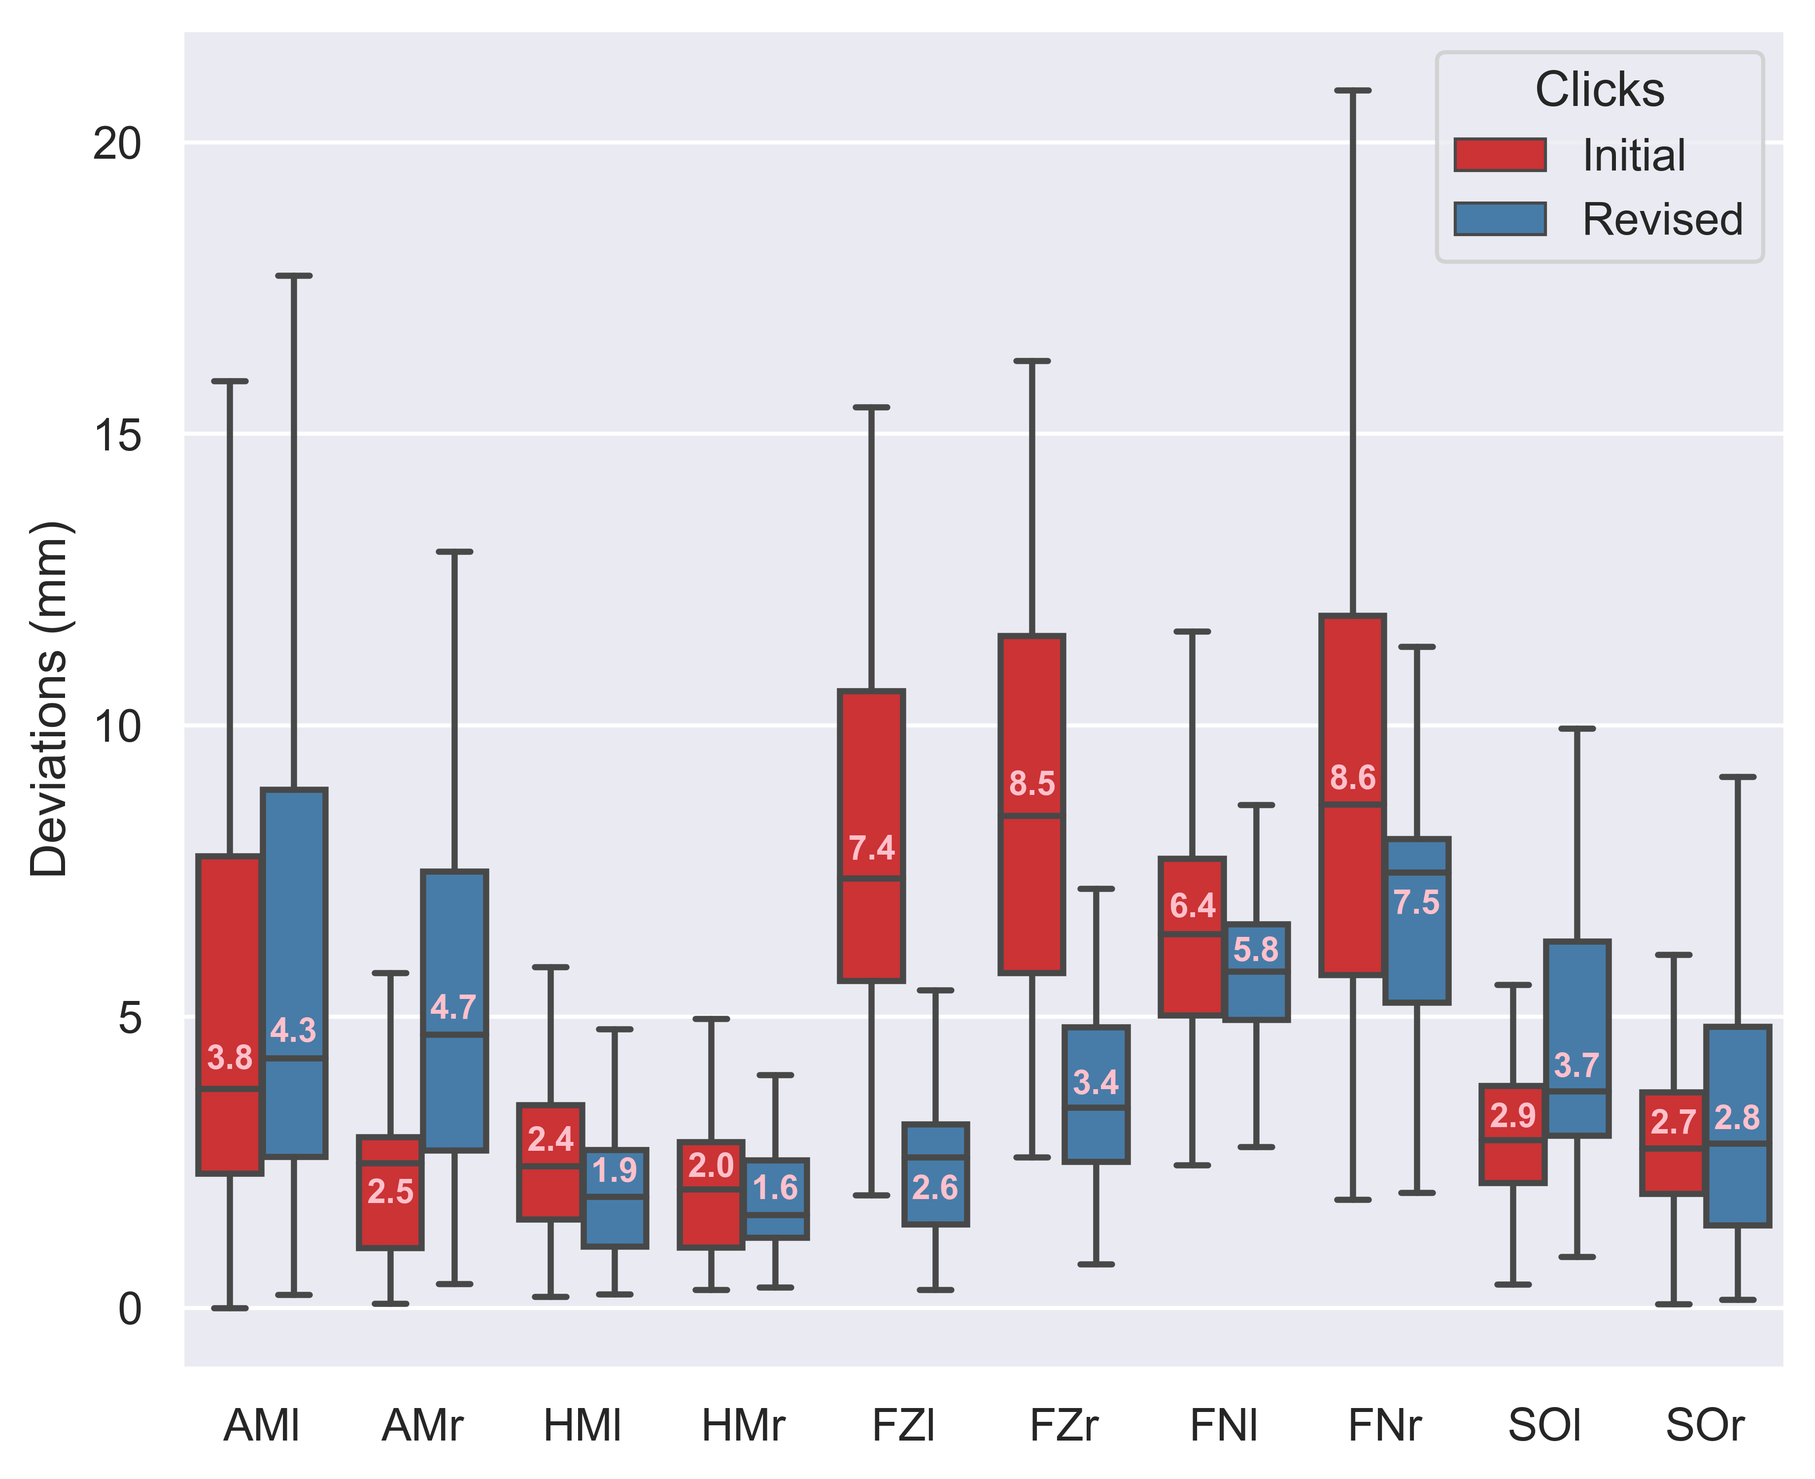
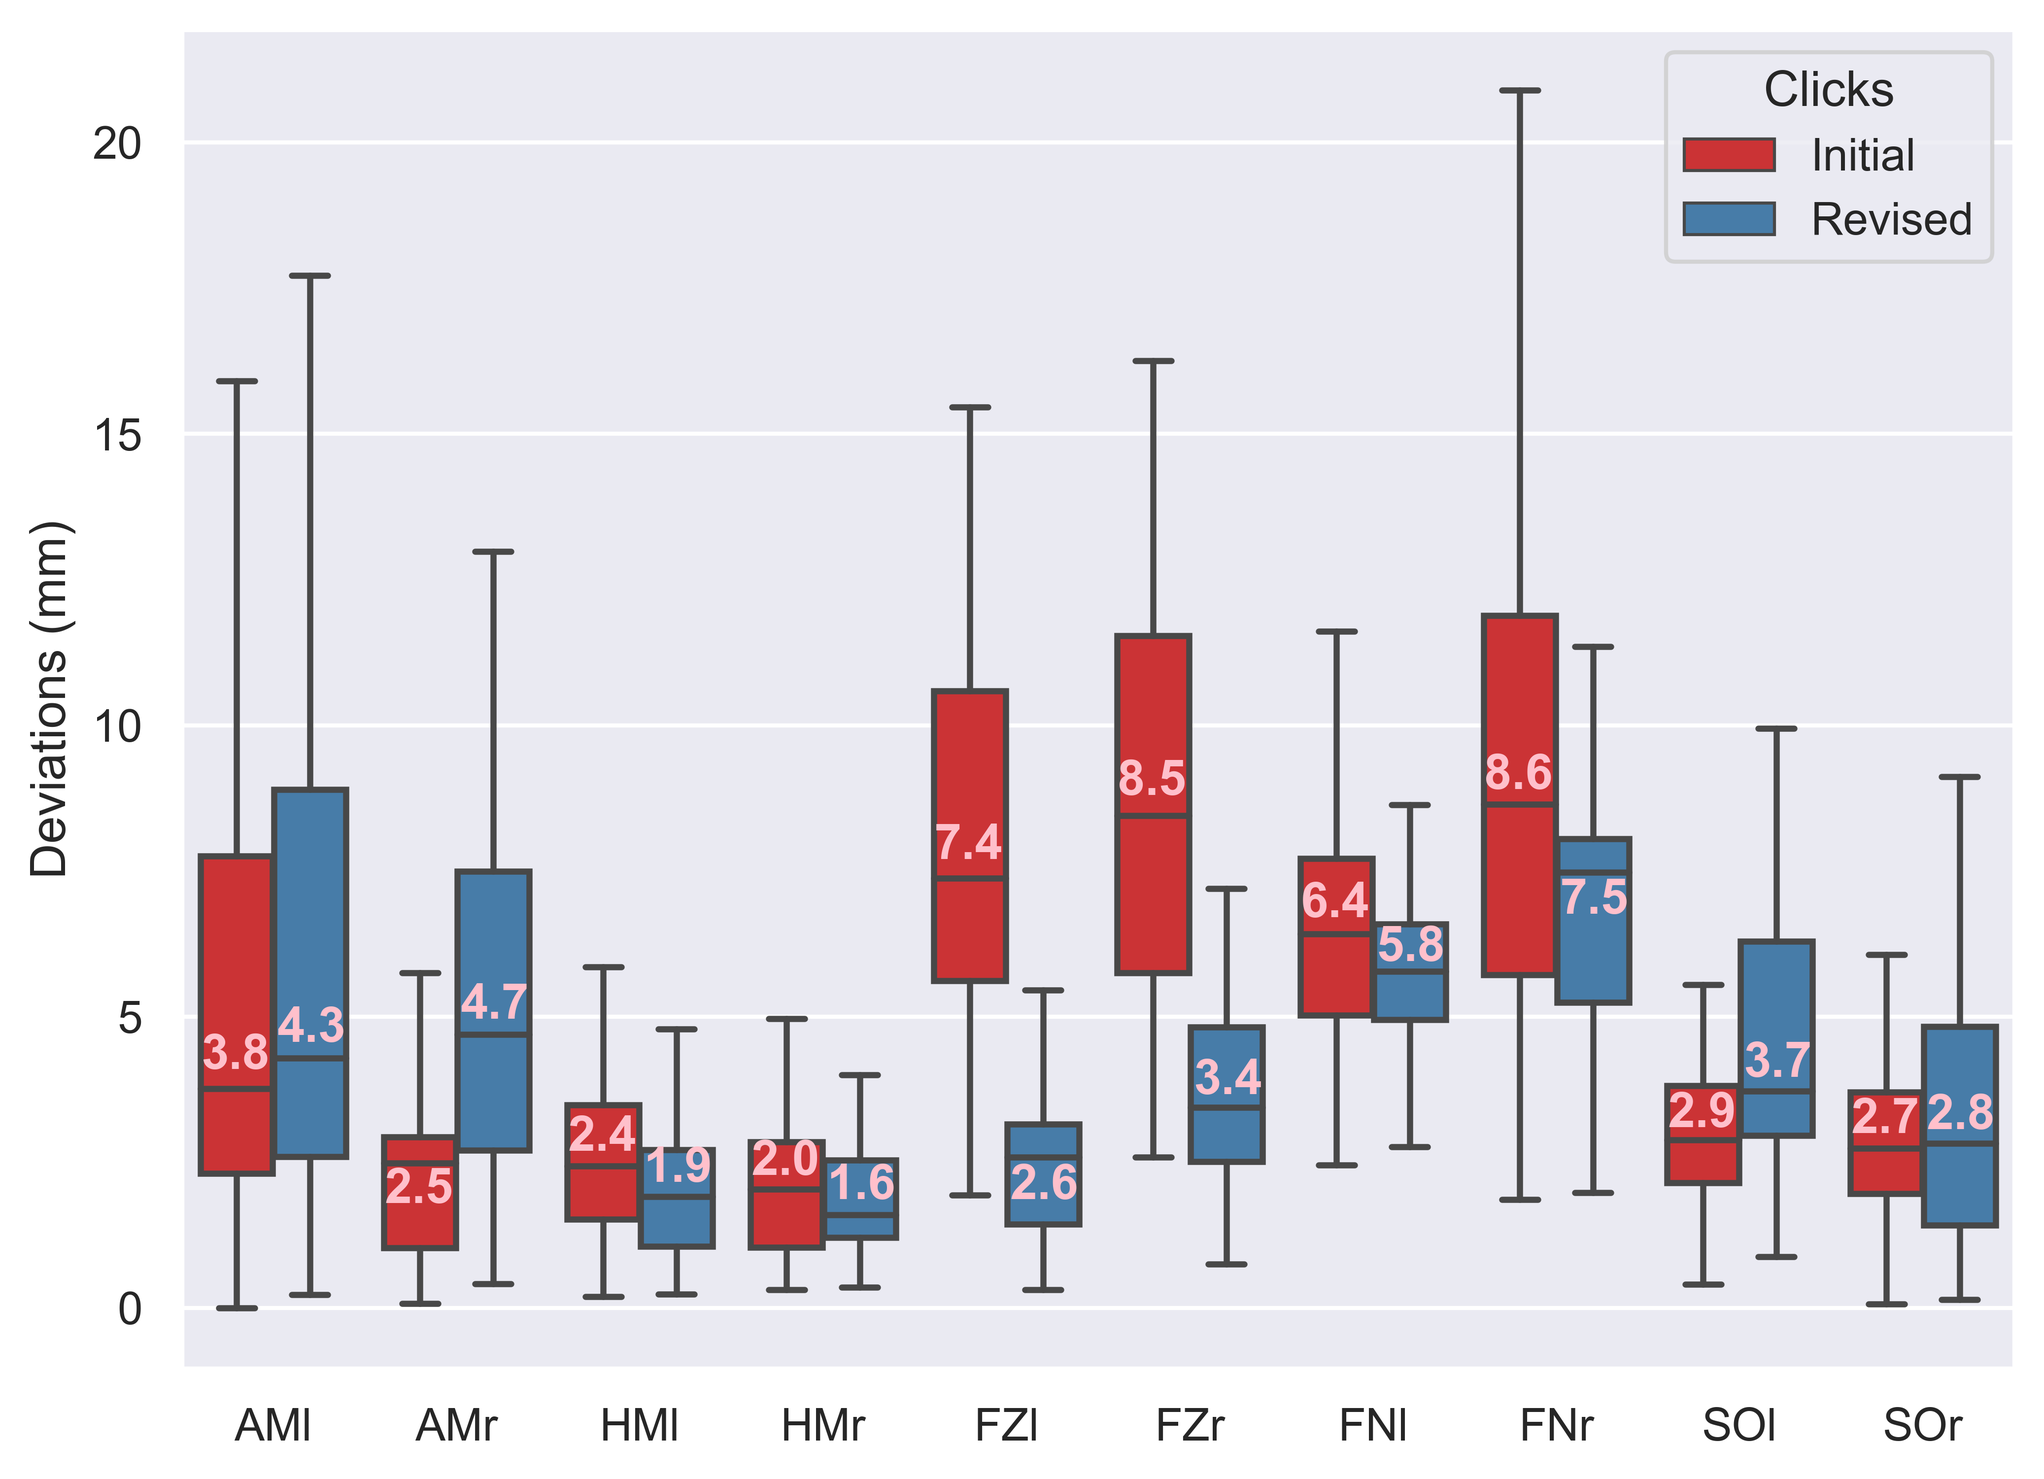
push

diff --git a/compare/click_comp_sets.py b/compare/click_comp_sets.py
@@ -156,79 +156,85 @@ d_new = []
 l_old = [0.7, 1.7, 2.7, 3.7, 4.7, 5.7, 6.7, 7.7, 8.7, 9.7] 
 l_new = [1.3, 2.3, 3.3, 4.3, 5.3, 6.3, 7.3, 8.3, 9.3, 10.3]
 
-for l in landmarks:
-    L = lm[l-1]
-    for j in range(len(pat_list_old)):
-        z_mm, y_mm, x_mm = pixel_to_mm(pat_list_old[j])
-        dev_x_old = (com_list_clicker_o_1['%1.0f' % l][j][2] - com_list_clicker_a_1['%1.0f' % l][j][2])*(x_mm)
-        dev_y_old = (com_list_clicker_o_1['%1.0f' % l][j][1] - com_list_clicker_a_1['%1.0f' % l][j][1])*(y_mm)
-        dev_z_old = (com_list_clicker_o_1['%1.0f' % l][j][0] - com_list_clicker_a_1['%1.0f' % l][j][0])*(z_mm)
+inter = True
 
-        dev_old = math.sqrt(abs(dev_x_old)**2 + abs(dev_y_old)**2 + abs(dev_z_old)**2)
-    
-        i = int(j)
-    
-        devs_old = [i, L, dev_old]
-        d_old.append(devs_old)
-       
-      
-
-#print(d_old)
-df_d_old = pd.DataFrame(d_old, columns=('Patient', 'Landmark','Deviation'))
-print(df_d_old)
-
-dev=[]
-
-for l in landmarks:
-    L = lm[l-1]
-    for j in range(len(pat_list_new)):
-        z_mm, y_mm, x_mm = pixel_to_mm(pat_list_new[j])
-        dev_x_new = (com_list_clicker_o_2['%1.0f' % l][j][2] - com_list_clicker_a_2['%1.0f' % l][j][2])*(x_mm)
-        dev_y_new = (com_list_clicker_o_2['%1.0f' % l][j][1] - com_list_clicker_a_2['%1.0f' % l][j][1])*(y_mm)
-        dev_z_new = (com_list_clicker_o_2['%1.0f' % l][j][0] - com_list_clicker_a_2['%1.0f' % l][j][0])*(z_mm)
-
-        dev_new = math.sqrt(abs(dev_x_new)**2 + abs(dev_y_new)**2 + abs(dev_z_new)**2)
-    
-        i = int(j)
-        
-        devs_new = [i, L, dev_new]
-        d_new.append(devs_new)
-        
-        #devs_new = [i, l, dev_new]
-    #d_x.append(x_dev)    
-    #d_y.append(y_dev)
-    #d_z.append(z_dev)
-        #d_new.append(devs_new)
-        
-        """
-        if j < len(pat_list_old):
+if inter == True:
+    for l in landmarks:
+        L = lm[l-1]
+        for j in range(len(pat_list_old)):
+            z_mm, y_mm, x_mm = pixel_to_mm(pat_list_old[j])
             dev_x_old = (com_list_clicker_o_1['%1.0f' % l][j][2] - com_list_clicker_a_1['%1.0f' % l][j][2])*(x_mm)
             dev_y_old = (com_list_clicker_o_1['%1.0f' % l][j][1] - com_list_clicker_a_1['%1.0f' % l][j][1])*(y_mm)
             dev_z_old = (com_list_clicker_o_1['%1.0f' % l][j][0] - com_list_clicker_a_1['%1.0f' % l][j][0])*(z_mm)
     
             dev_old = math.sqrt(abs(dev_x_old)**2 + abs(dev_y_old)**2 + abs(dev_z_old)**2)
-        else: 
-            NaN = np.nan
-            dev_old = NaN
         
-        d = [i, l, dev_old, dev_new]   
-        dev.append(d)
-        """
+            i = int(j)
+        
+            devs_old = [i, L, dev_old]
+            d_old.append(devs_old)
+           
+    dev=[]
+    
+    for l in landmarks:
+        L = lm[l-1]
+        for j in range(len(pat_list_new)):
+            z_mm, y_mm, x_mm = pixel_to_mm(pat_list_new[j])
+            dev_x_new = (com_list_clicker_o_2['%1.0f' % l][j][2] - com_list_clicker_a_2['%1.0f' % l][j][2])*(x_mm)
+            dev_y_new = (com_list_clicker_o_2['%1.0f' % l][j][1] - com_list_clicker_a_2['%1.0f' % l][j][1])*(y_mm)
+            dev_z_new = (com_list_clicker_o_2['%1.0f' % l][j][0] - com_list_clicker_a_2['%1.0f' % l][j][0])*(z_mm)
+    
+            dev_new = math.sqrt(abs(dev_x_new)**2 + abs(dev_y_new)**2 + abs(dev_z_new)**2)
+        
+            i = int(j)
+            
+            devs_new = [i, L, dev_new]
+            d_new.append(devs_new)
+
+elif inter == False:
+    for l in landmarks:
+        L = lm[l-1]
+        for j in range(len(pat_list_old)):
+            z_mm, y_mm, x_mm = pixel_to_mm(pat_list_old[j])
+            dev_x_old = (com_list_clicker_o_1['%1.0f' % l][j][2] - com_list_clicker_o_2['%1.0f' % l][j][2])*(x_mm)
+            dev_y_old = (com_list_clicker_o_1['%1.0f' % l][j][1] - com_list_clicker_o_2['%1.0f' % l][j][1])*(y_mm)
+            dev_z_old = (com_list_clicker_o_1['%1.0f' % l][j][0] - com_list_clicker_o_2['%1.0f' % l][j][0])*(z_mm)
+    
+            dev_old = math.sqrt(abs(dev_x_old)**2 + abs(dev_y_old)**2 + abs(dev_z_old)**2)
+        
+            i = int(j)
+        
+            devs_old = [i, L, dev_old]
+            d_old.append(devs_old)
+           
+    dev=[]
+    
+    for l in landmarks:
+        L = lm[l-1]
+        for j in range(len(pat_list_new)):
+            z_mm, y_mm, x_mm = pixel_to_mm(pat_list_new[j])
+            dev_x_new = (com_list_clicker_a_1['%1.0f' % l][j][2] - com_list_clicker_a_2['%1.0f' % l][j][2])*(x_mm)
+            dev_y_new = (com_list_clicker_a_1['%1.0f' % l][j][1] - com_list_clicker_a_2['%1.0f' % l][j][1])*(y_mm)
+            dev_z_new = (com_list_clicker_a_1['%1.0f' % l][j][0] - com_list_clicker_a_2['%1.0f' % l][j][0])*(z_mm)
+    
+            dev_new = math.sqrt(abs(dev_x_new)**2 + abs(dev_y_new)**2 + abs(dev_z_new)**2)
+        
+            i = int(j)
+            
+            devs_new = [i, L, dev_new]
+            d_new.append(devs_new)
+    
+
+df_d_old = pd.DataFrame(d_old, columns=('Patient', 'Landmark','Deviation'))
 df_d_new = pd.DataFrame(d_new,  columns=('Patient', 'Landmark','Deviation'))
        
-"""
-tips = sns.load_dataset("tips")
-print(tips)
-#print(d_old)
-df_d = pd.DataFrame(dev, columns=('Patient', 'Landmark','Initial', 'Revised'))
-print(df_d)
-print(np.shape(d_new))
-#df_d_new = pd.DataFrame(d_new, columns=('Patient', 'Landmark','Revised'))
-#print(df_d_new)
-"""
-
-df_d_new['Clicks'] = 'Revised'
-df_d_old['Clicks'] = 'Initial'
+if inter == True:
+    df_d_new['Clicks'] = 'Revised'
+    df_d_old['Clicks'] = 'Initial'
+if inter == False:
+    df_d_new['Clicker'] = 'Aaron'
+    df_d_old['Clicker'] = 'Oli'
+    
 df_d = pd.concat([df_d_old,df_d_new])
 
 medians_old = df_d_old.groupby(['Landmark'])['Deviation'].median()
@@ -241,8 +247,12 @@ means_new = df_d_new.groupby(['Landmark'])['Deviation'].mean()
 means_old = df_d_old.groupby(['Landmark'])['Deviation'].mean()
 
 #hand =  ['Initial', 'Revised']
-plt.figure(figsize=(7,6))
-box_plot = sns.boxplot(x = 'Landmark', y = 'Deviation', hue = 'Clicks', palette = 'Set1', data=df_d, showfliers=False)
+plt.figure(figsize=(8,6))
+if inter == True:       
+    box_plot = sns.boxplot(x = 'Landmark', y = 'Deviation', hue = 'Clicks', palette = 'Set1', data=df_d, showfliers=False)
+elif inter == False:
+    box_plot = sns.boxplot(x = 'Landmark', y = 'Deviation', hue = 'Clicker', palette = 'Set1', data=df_d, showfliers=False)
+
 #sns_plot_new = sns.boxplot(x = 'Landmark', y = 'Revised',data=df_d_new, showfliers=False)
 #plt.legend(bbox_to_anchor=(1.05, 1), handles = [sns_plot_old, sns_plot_new], loc='upper left', borderaxespad=0.)
 #plt.xlabel('Landmarks')
@@ -259,42 +269,98 @@ means_new = means_new.reindex(index=lm)
 medians_old = medians_old.reindex(index=lm)
 medians_new = medians_new.reindex(index=lm)
 
-for xtick in box_plot.get_xticks():
-    if xtick == 1:
-        box_plot.text(xtick - 0.05,medians_old[xtick] + vertical_offset_old - 1,medians_old[xtick], 
-                horizontalalignment='right',size='x-small',color='pink', weight='semibold', rotation = 0)
-        box_plot.text(xtick + 0.05,medians_new[xtick] + vertical_offset_new,medians_new[xtick], 
-            horizontalalignment='left',size='x-small',color='pink', weight='semibold', rotation = 0)
-    elif xtick == 3:
-        box_plot.text(xtick - 0.05,medians_old[xtick] + vertical_offset_old - 0.05,medians_old[xtick], 
-                horizontalalignment='right',size='x-small',color='pink', weight='semibold', rotation = 0)
-        box_plot.text(xtick + 0.05,medians_new[xtick] + vertical_offset_new,medians_new[xtick], 
-            horizontalalignment='left',size='x-small',color='pink', weight='semibold', rotation = 0)
-    elif xtick == 4:
-        box_plot.text(xtick - 0.05,medians_old[xtick] + vertical_offset_old,medians_old[xtick], 
-                horizontalalignment='right',size='x-small',color='pink', weight='semibold', rotation = 0)
-        box_plot.text(xtick + 0.05,medians_new[xtick] + vertical_offset_new - 1,medians_new[xtick], 
-            horizontalalignment='left',size='x-small',color='pink', weight='semibold', rotation = 0)
-    elif xtick == 6:
-        box_plot.text(xtick - 0.05,medians_old[xtick] + vertical_offset_old,medians_old[xtick], 
-                horizontalalignment='right',size='x-small',color='pink', weight='semibold', rotation = 0)
-        box_plot.text(xtick + 0.05,medians_new[xtick] + vertical_offset_new - 0.11,medians_new[xtick], 
-            horizontalalignment='left',size='x-small',color='pink', weight='semibold', rotation = 0)
-    elif xtick == 7:
-        box_plot.text(xtick - 0.05,medians_old[xtick] + vertical_offset_old,medians_old[xtick], 
-                horizontalalignment='right',size='x-small',color='pink', weight='semibold', rotation = 0)
-        box_plot.text(xtick + 0.05,medians_new[xtick] + vertical_offset_new - 1,medians_new[xtick], 
-            horizontalalignment='left',size='x-small',color='pink', weight='semibold', rotation = 0)
-    elif xtick == 8:
-        box_plot.text(xtick - 0.05,medians_old[xtick] + vertical_offset_old - 0.1,medians_old[xtick], 
-                horizontalalignment='right',size='x-small',color='pink', weight='semibold', rotation = 0)
-        box_plot.text(xtick + 0.05,medians_new[xtick] + vertical_offset_new - 0,medians_new[xtick], 
-            horizontalalignment='left',size='x-small',color='pink', weight='semibold', rotation = 0)
-    else:
-        box_plot.text(xtick - 0.05,medians_old[xtick] + vertical_offset_old,medians_old[xtick], 
-                horizontalalignment='right',size='x-small',color='pink', weight='semibold', rotation = 0)
-        box_plot.text(xtick + 0.05,medians_new[xtick] + vertical_offset_new,medians_new[xtick], 
-            horizontalalignment='left',size='x-small',color='pink', weight='semibold', rotation = 0)
+if inter == True:
+    for xtick in box_plot.get_xticks():
+        if xtick == 1:
+            box_plot.text(xtick - 0.02,medians_old[xtick] + vertical_offset_old - 1,medians_old[xtick], 
+                    horizontalalignment='right',size=12,color='pink', weight='semibold', rotation = 0)
+            box_plot.text(xtick + 0.02,medians_new[xtick] + vertical_offset_new,medians_new[xtick], 
+                horizontalalignment='left',size=12,color='pink', weight='semibold', rotation = 0)
+        elif xtick == 3:
+            box_plot.text(xtick - 0.02,medians_old[xtick] + vertical_offset_old - 0.02,medians_old[xtick], 
+                    horizontalalignment='right',size=12,color='pink', weight='semibold', rotation = 0)
+            box_plot.text(xtick + 0.02,medians_new[xtick] + vertical_offset_new,medians_new[xtick], 
+                horizontalalignment='left',size=12,color='pink', weight='semibold', rotation = 0)
+        elif xtick == 4:
+            box_plot.text(xtick - 0.02,medians_old[xtick] + vertical_offset_old,medians_old[xtick], 
+                    horizontalalignment='right',size=12,color='pink', weight='semibold', rotation = 0)
+            box_plot.text(xtick + 0.02,medians_new[xtick] + vertical_offset_new - 1,medians_new[xtick], 
+                horizontalalignment='left',size=12,color='pink', weight='semibold', rotation = 0)
+        elif xtick == 6:
+            box_plot.text(xtick - 0.02,medians_old[xtick] + vertical_offset_old,medians_old[xtick], 
+                    horizontalalignment='right',size=12,color='pink', weight='semibold', rotation = 0)
+            box_plot.text(xtick + 0.02,medians_new[xtick] + vertical_offset_new - 0.11,medians_new[xtick], 
+                horizontalalignment='left',size=12,color='pink', weight='semibold', rotation = 0)
+        elif xtick == 7:
+            box_plot.text(xtick - 0.02,medians_old[xtick] + vertical_offset_old,medians_old[xtick], 
+                    horizontalalignment='right',size=12,color='pink', weight='semibold', rotation = 0)
+            box_plot.text(xtick + 0.02,medians_new[xtick] + vertical_offset_new - 1,medians_new[xtick], 
+                horizontalalignment='left',size=12,color='pink', weight='semibold', rotation = 0)
+        elif xtick == 8:
+            box_plot.text(xtick - 0.02,medians_old[xtick] + vertical_offset_old - 0.1,medians_old[xtick], 
+                    horizontalalignment='right',size=12,color='pink', weight='semibold', rotation = 0)
+            box_plot.text(xtick + 0.02,medians_new[xtick] + vertical_offset_new - 0,medians_new[xtick], 
+                horizontalalignment='left',size=12,color='pink', weight='semibold', rotation = 0)
+        else:
+            box_plot.text(xtick - 0.02,medians_old[xtick] + vertical_offset_old,medians_old[xtick], 
+                    horizontalalignment='right',size=12,color='pink', weight='semibold', rotation = 0)
+            box_plot.text(xtick + 0.02,medians_new[xtick] + vertical_offset_new,medians_new[xtick], 
+                horizontalalignment='left',size=12,color='pink', weight='semibold', rotation = 0)
+
+elif inter == False:
+    for xtick in box_plot.get_xticks():
+        
+        if xtick == 1:
+            box_plot.text(xtick - 0.02,medians_old[xtick] + vertical_offset_old,medians_old[xtick], 
+                    horizontalalignment='right',size=12,color='pink', weight='semibold', rotation = 0)
+            box_plot.text(xtick + 0.02,medians_new[xtick] + vertical_offset_new,medians_new[xtick], 
+                horizontalalignment='left',size=12,color='pink', weight='semibold', rotation = 0)
+        elif xtick == 2:
+            box_plot.text(xtick - 0.07,medians_old[xtick] + vertical_offset_old - 0.05,medians_old[xtick], 
+                    horizontalalignment='right',size=12,color='pink', weight='semibold', rotation = 0)
+            box_plot.text(xtick + 0.07,medians_new[xtick] + vertical_offset_new - 1,medians_new[xtick], 
+                horizontalalignment='left',size=12,color='pink', weight='semibold', rotation = 0)
+        elif xtick == 3:
+            box_plot.text(xtick - 0.08,medians_old[xtick] + vertical_offset_old - 0.05,medians_old[xtick], 
+                    horizontalalignment='right',size=12,color='pink', weight='semibold', rotation = 0)
+            box_plot.text(xtick + 0.08,medians_new[xtick] + vertical_offset_new - 1,medians_new[xtick], 
+                horizontalalignment='left',size=12,color='pink', weight='semibold', rotation = 0)
+        elif xtick == 4:
+            box_plot.text(xtick - 0.05,medians_old[xtick] + vertical_offset_old,medians_old[xtick], 
+                    horizontalalignment='right',size=12,color='pink', weight='semibold', rotation = 0)
+            box_plot.text(xtick + 0.05,medians_new[xtick] + vertical_offset_new,medians_new[xtick], 
+                horizontalalignment='left',size=12,color='pink', weight='semibold', rotation = 0)
+        elif xtick == 5:
+            box_plot.text(xtick - 0.07,medians_old[xtick] + vertical_offset_old,medians_old[xtick], 
+                    horizontalalignment='right',size=12,color='pink', weight='semibold', rotation = 0)
+            box_plot.text(xtick + 0.07,medians_new[xtick] + vertical_offset_new,medians_new[xtick], 
+                horizontalalignment='left',size=12,color='pink', weight='semibold', rotation = 0)
+        elif xtick == 6:
+            box_plot.text(xtick - 0.02,medians_old[xtick] + vertical_offset_old,medians_old[xtick], 
+                    horizontalalignment='right',size=12,color='pink', weight='semibold', rotation = 0)
+            box_plot.text(xtick + 0.02,medians_new[xtick] + vertical_offset_new - 0.11,medians_new[xtick], 
+                horizontalalignment='left',size=12,color='pink', weight='semibold', rotation = 0)
+        elif xtick == 7:
+            box_plot.text(xtick - 0.02,medians_old[xtick] + vertical_offset_old,medians_old[xtick], 
+                    horizontalalignment='right',size=12,color='pink', weight='semibold', rotation = 90)
+            box_plot.text(xtick + 0.02,medians_new[xtick] + vertical_offset_new,medians_new[xtick], 
+                horizontalalignment='left',size=12,color='pink', weight='semibold', rotation = 90)
+        elif xtick == 8:
+            box_plot.text(xtick - 0.07,medians_old[xtick] + vertical_offset_old - 1,medians_old[xtick], 
+                    horizontalalignment='right',size=12,color='pink', weight='semibold', rotation = 0)
+            box_plot.text(xtick + 0.07,medians_new[xtick] + vertical_offset_new - 0.4,medians_new[xtick], 
+                horizontalalignment='left',size=12,color='pink', weight='semibold', rotation = 0)
+        elif xtick == 9:
+            box_plot.text(xtick - 0.05,medians_old[xtick] + vertical_offset_old+0.3,medians_old[xtick], 
+                    horizontalalignment='right',size=12,color='pink', weight='semibold', rotation = 0)
+            box_plot.text(xtick + 0.05,medians_new[xtick] + vertical_offset_new ,medians_new[xtick], 
+                horizontalalignment='left',size=12,color='pink', weight='semibold', rotation = 0)
+        else:
+            box_plot.text(xtick - 0.05,medians_old[xtick] + vertical_offset_old,medians_old[xtick], 
+                    horizontalalignment='right',size=12,color='pink', weight='semibold', rotation = 0)
+            box_plot.text(xtick + 0.05,medians_new[xtick] + vertical_offset_new,medians_new[xtick], 
+                horizontalalignment='left',size=12,color='pink', weight='semibold', rotation = 0)
+
 
 #plt.title("Inter-observer variation between initial and revised datasets")
 #sns_plot_x.fig.subplots_adjust(top=1)
